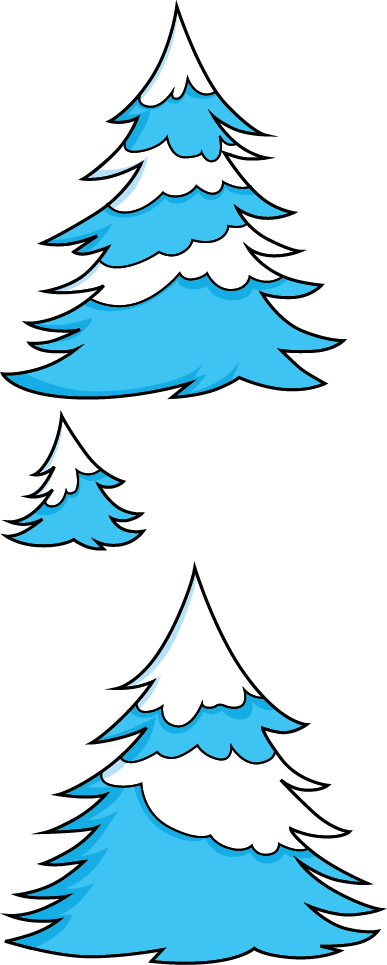
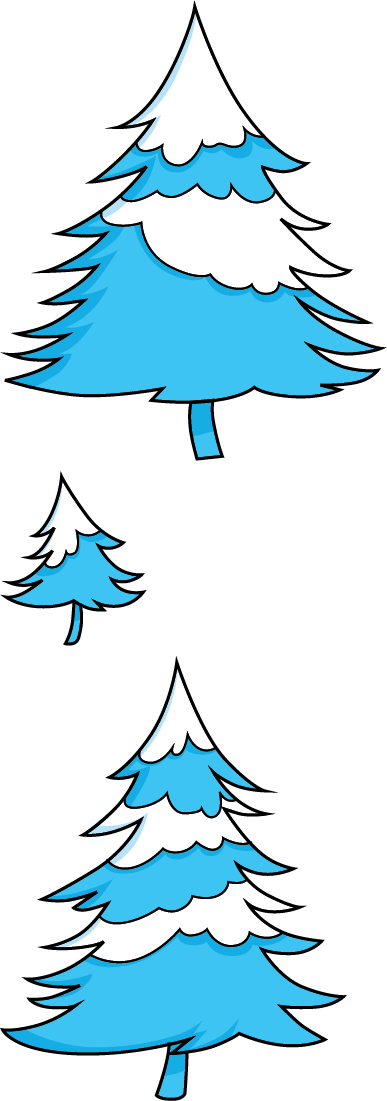
feat(stmGameBiathlon): Обновление персонажей (40мин)

diff --git a/src/stmGameBiathlon/directives/stmGameBiathlonScreen/b-gameBiathlon.css b/src/stmGameBiathlon/directives/stmGameBiathlonScreen/b-gameBiathlon.css
@@ -163,6 +163,20 @@
     margin-left: -154px;
 }
 
+.b-biathlon-yeti_mod6 {
+    background-position: 0 -1374px;
+    height: 312px;
+    width: 308px;
+    margin-left: -154px;
+}
+
+.b-biathlon-yeti_mod7 {
+    background-position: 0 -1696px;
+    height: 304px;
+    width: 295px;
+    margin-left: -147.5px;
+}
+
 /* men */
 .l-b-biathlon-men {
     width: 100px; 
@@ -232,25 +246,25 @@
 
 .b-biathlon-tree_mod1 {
     background-position: 0 0;
-    height: 400px;
-    width: 347px;
-    margin-top: -381px;
+    height: 461px;
+    width: 387px;
+    margin-top: --450px;
     margin-left: -173px;
 }
 
 .b-biathlon-tree_mod2 {
-    background-position: 0 -410px;
-    height: 141px;
+    background-position: 0 -471px;
+    height: 175px;
     width: 147px;
-    margin-top: -130px;
+    margin-top: -164px;
     margin-left: -73px;
 }
 
 .b-biathlon-tree_mod3 {
-    background-position: 0 -561px;
-    height: 404px;
-    width: 387px;
-    margin-top: -381px;
+    background-position: 0 -656px;
+    height: 445px;
+    width: 347px;
+    margin-top: -410px;
     margin-left: -193px;
 }
 
